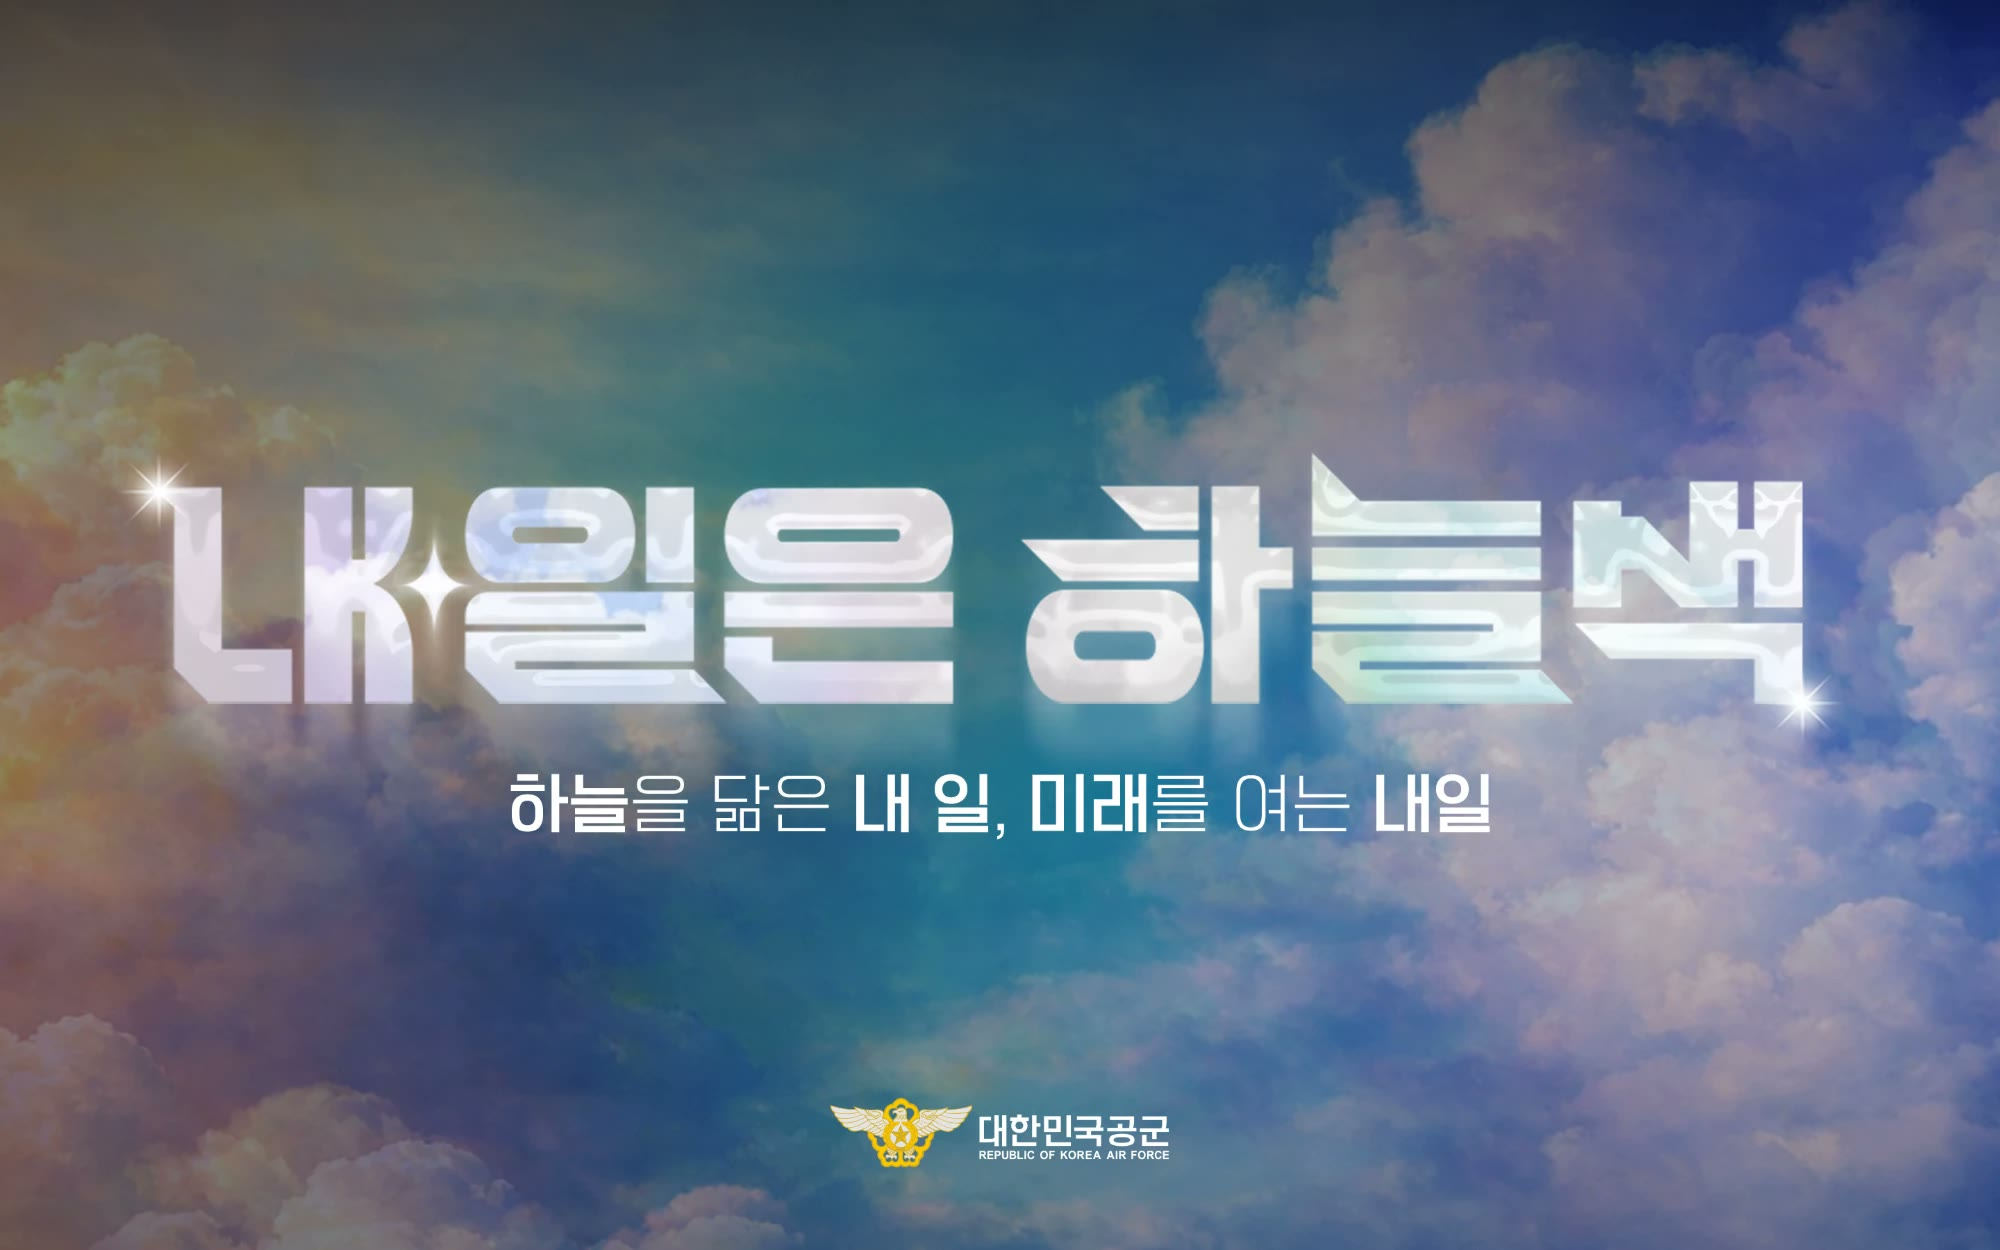
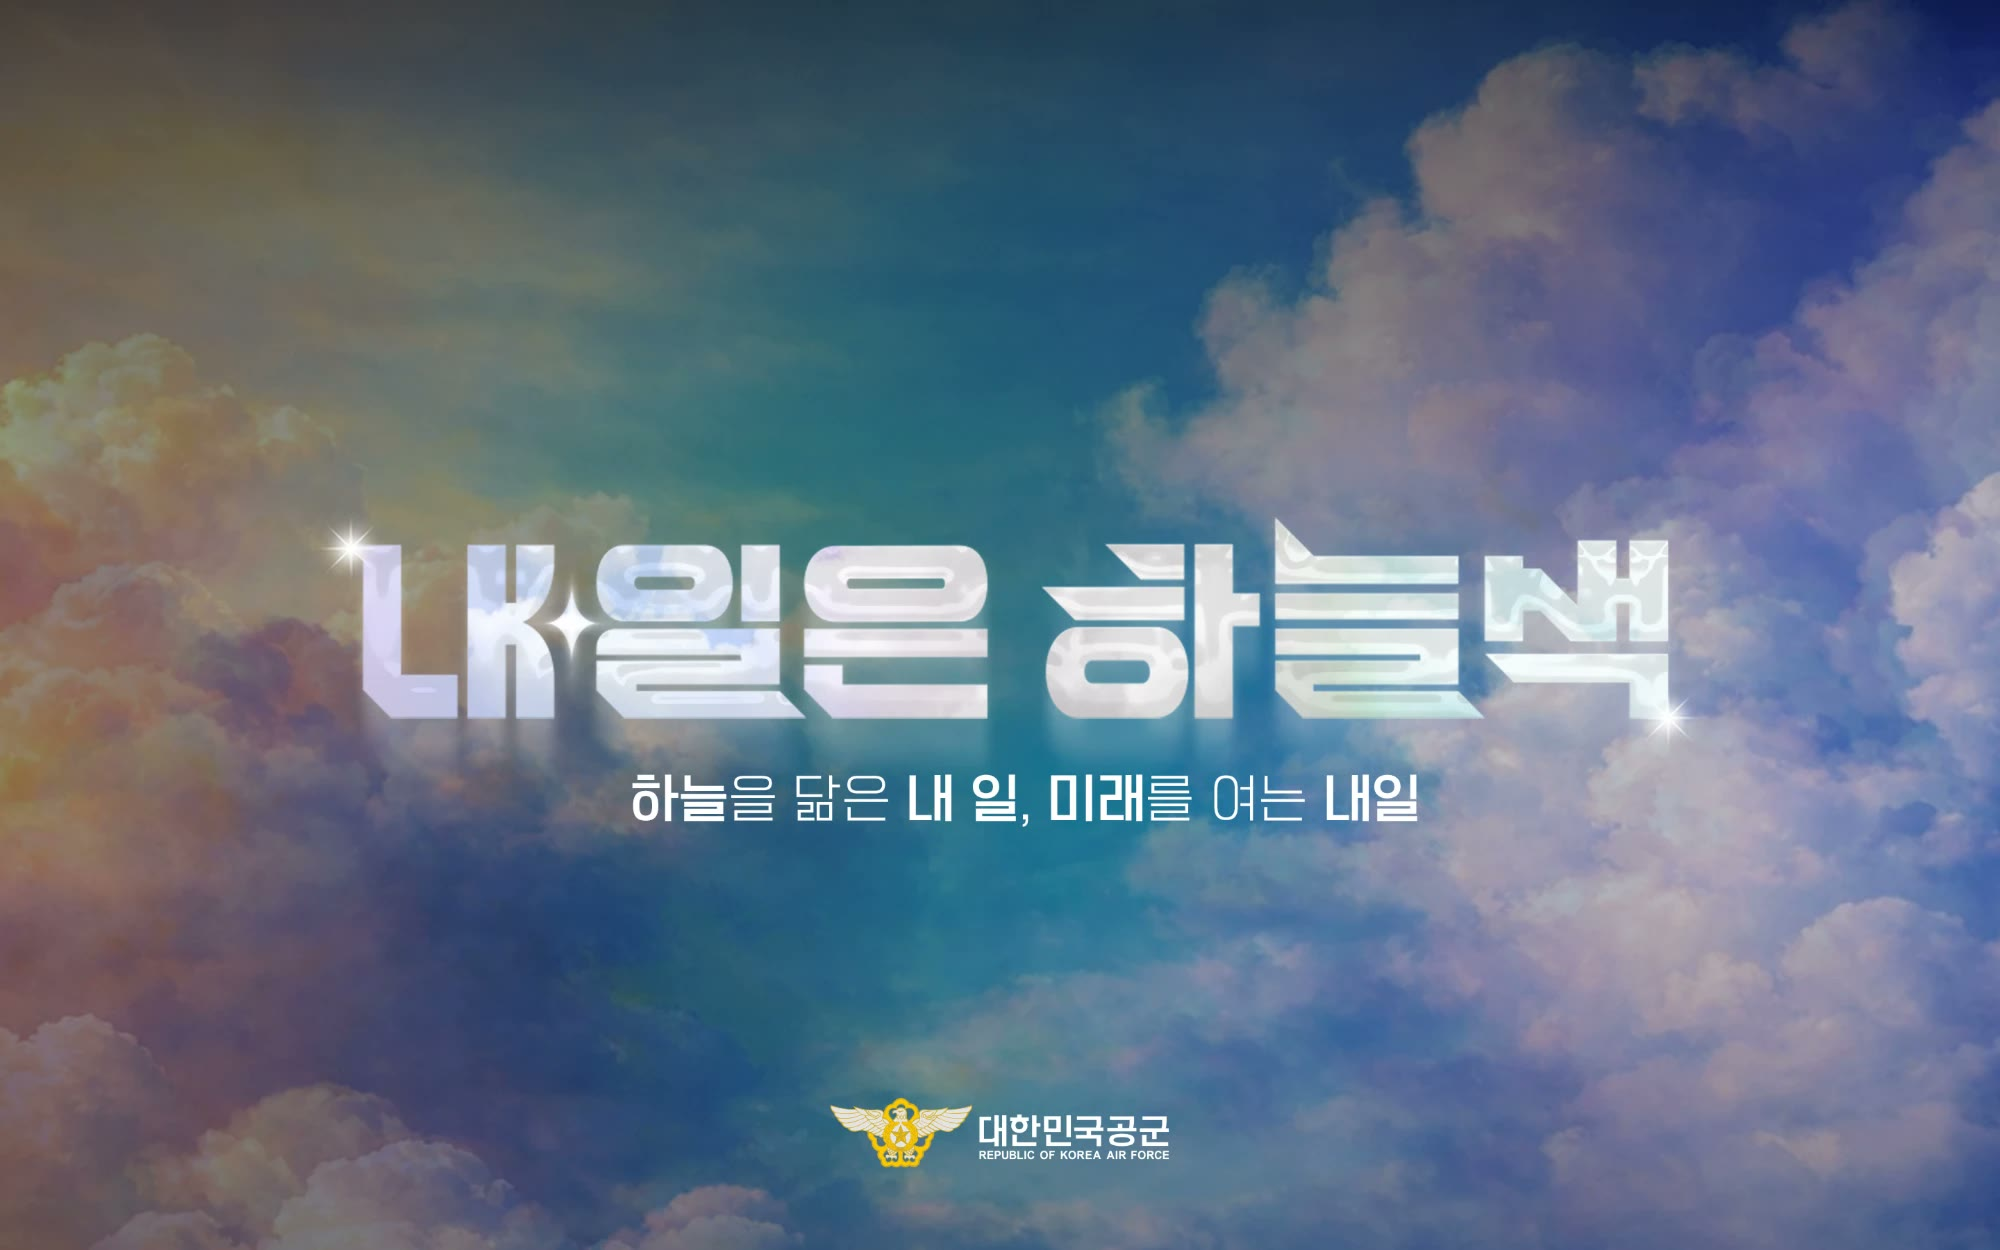
Air force: re-framed main image; case hero image full width under the intro

Changed region(s): [[0.062, 0.3744, 0.93, 0.6864]]

diff --git a/work/airforce.html b/work/airforce.html
@@ -19,7 +19,7 @@
   <link rel="preconnect" href="https://fonts.gstatic.com" crossorigin>
   <link rel="stylesheet" href="https://fonts.googleapis.com/css2?family=Instrument+Serif:ital@0;1&family=Noto+Sans+KR:wght@300;400;500&display=swap">
   <link rel="stylesheet" href="https://cdn.jsdelivr.net/npm/galmuri@latest/dist/galmuri.css">
-  <link rel="stylesheet" href="../styles.css?v=60">
+  <link rel="stylesheet" href="../styles.css?v=61">
 </head>
 <body>
   <header class="hud">
@@ -35,21 +35,17 @@
   <main>
     <section class="cp-hero" data-vital="CHART">
       <a class="cp-back" href="../index.html#work">← ALL CASE FILES</a>
-      <div class="cp-split">
-        <div>
-          <p class="cp-no">CHART 01 — MAIN</p>
-          <h1 class="cp-title">대한민국 공군 <em>ROKAF</em></h1>
-          <p class="cp-kicker">Air Force Recruitment Brand Identity &amp; Communication System</p>
-          <p class="cp-lead">대한민국 공군본부 인재획득과의 콘텐츠제작병으로 복무하여, <b>공군모집 브랜드 아이덴티티 리뉴얼 및 통합 커뮤니케이션 시스템</b>을 구축했습니다. 이 범위에는 리브랜딩, 홍보영상 기획 및 제작, 온·오프라인 캠페인 비주얼 디렉션 콘텐츠, 굿즈 및 브랜드 경험의 전방위적 이미지를 확립했습니다.</p>
-        </div>
-        <img class="cp-cover" src="../assets/work/airforce/main.jpg" alt="공군 모집 키비주얼 ‘내일은 하늘색’">
-      </div>
+      <p class="cp-no">CHART 01 — MAIN</p>
+      <h1 class="cp-title">대한민국 공군 <em>ROKAF</em></h1>
+      <p class="cp-kicker">Air Force Recruitment Brand Identity &amp; Communication System</p>
+      <p class="cp-lead">대한민국 공군본부 인재획득과의 콘텐츠제작병으로 복무하여, <b>공군모집 브랜드 아이덴티티 리뉴얼 및 통합 커뮤니케이션 시스템</b>을 구축했습니다. 이 범위에는 리브랜딩, 홍보영상 기획 및 제작, 온·오프라인 캠페인 비주얼 디렉션 콘텐츠, 굿즈 및 브랜드 경험의 전방위적 이미지를 확립했습니다.</p>
       <dl class="cp-meta">
         <div><dt>CLIENT</dt><dd>대한민국 공군본부 인재획득과</dd></div>
         <div><dt>DATE</dt><dd>2024 ~ 2026</dd></div>
         <div><dt>TOOLS</dt><dd>Adobe Illustrator, Photoshop, Premiere Pro, Google Flow, ChatGPT, Midjourney</dd></div>
         <div><dt>STATUS</dt><dd style="color: var(--acc)">REVIVED</dd></div>
       </dl>
+      <img class="cp-cover cp-cover--wide" src="../assets/work/airforce/main.jpg?v=2" alt="공군 모집 키비주얼 ‘내일은 하늘색’">
     </section>
 
     <!-- 01 BEFORE: 브랜드의 기존 문제점 -->

diff --git a/index.html b/index.html
@@ -20,7 +20,7 @@
   <link rel="preconnect" href="https://fonts.gstatic.com" crossorigin>
   <link rel="stylesheet" href="https://fonts.googleapis.com/css2?family=Instrument+Serif:ital@0;1&family=Noto+Sans+KR:wght@300;400;500&display=swap">
   <link rel="stylesheet" href="https://cdn.jsdelivr.net/npm/galmuri@latest/dist/galmuri.css">
-  <link rel="stylesheet" href="styles.css?v=60">
+  <link rel="stylesheet" href="styles.css?v=61">
 </head>
 <body>
   <header class="hud">
@@ -86,7 +86,7 @@
       <header class="section__head"><span>[ 01 ]</span><h2>Case Files</h2><i></i><span>BRAND CPR RECORDS</span></header>
 
       <article class="case">
-        <div class="case__visual"><img src="assets/work/airforce/main.jpg" alt="대한민국 공군 모집 브랜드 ‘내일은 하늘색’" loading="lazy"><span class="case__status"></span></div>
+        <div class="case__visual"><img src="assets/work/airforce/main.jpg?v=2" alt="대한민국 공군 모집 브랜드 ‘내일은 하늘색’" loading="lazy"><span class="case__status"></span></div>
         <div class="case__info">
           <p class="case__no">CHART 01 — MAIN</p>
           <h3 class="case__title">대한민국 공군 <em>ROKAF — Recruitment Brand Identity</em></h3>

diff --git a/styles.css b/styles.css
@@ -509,6 +509,7 @@ body { padding-bottom: 44px; }
 
 .cp-split { display: grid; grid-template-columns: minmax(0, 1fr) minmax(0, .9fr); gap: clamp(32px, 5vw, 96px); align-items: center; margin-bottom: clamp(32px, 4vw, 64px); }
 .cp-split .cp-cover { margin-top: 0; }
+.cp-cover--wide { aspect-ratio: 21 / 9; object-fit: cover; } /* 넓은 화면에서도 꽉 차게, 위아래 하늘만 조금 잘림 */
 /* 윙스피킹 표지: 흐린 외벽 위에 로고가 입체로 떠 있습니다 */
 .ws-hero { position: relative; overflow: hidden; perspective: 1000px; }
 .ws-hero__bg { display: block; width: 100%; }
@@ -802,3 +803,4 @@ body { padding-bottom: 44px; }
 /* 큰 화면에서 내용이 끝없이 퍼지지 않게: 본문 폭 최대 1280px, 가운데 정렬 */
 .section, .cp-hero, .cp-next { padding-inline: max(var(--gutter), calc((100% - 1280px) / 2)); }
 .kv__posters { margin-inline: auto; }
+@media (max-width: 700px) { .cp-cover--wide { aspect-ratio: 16 / 10; } }

diff --git a/work/mogak.html b/work/mogak.html
@@ -19,7 +19,7 @@
   <link rel="preconnect" href="https://fonts.gstatic.com" crossorigin>
   <link rel="stylesheet" href="https://fonts.googleapis.com/css2?family=Instrument+Serif:ital@0;1&family=Noto+Sans+KR:wght@300;400;500&display=swap">
   <link rel="stylesheet" href="https://cdn.jsdelivr.net/npm/galmuri@latest/dist/galmuri.css">
-  <link rel="stylesheet" href="../styles.css?v=60">
+  <link rel="stylesheet" href="../styles.css?v=61">
 </head>
 <body>
   <header class="hud">

diff --git a/work/studiokhun.html b/work/studiokhun.html
@@ -19,7 +19,7 @@
   <link rel="preconnect" href="https://fonts.gstatic.com" crossorigin>
   <link rel="stylesheet" href="https://fonts.googleapis.com/css2?family=Instrument+Serif:ital@0;1&family=Noto+Sans+KR:wght@300;400;500&display=swap">
   <link rel="stylesheet" href="https://cdn.jsdelivr.net/npm/galmuri@latest/dist/galmuri.css">
-  <link rel="stylesheet" href="../styles.css?v=60">
+  <link rel="stylesheet" href="../styles.css?v=61">
 </head>
 <body>
   <header class="hud">

diff --git a/work/wingspeaking.html b/work/wingspeaking.html
@@ -19,7 +19,7 @@
   <link rel="preconnect" href="https://fonts.gstatic.com" crossorigin>
   <link rel="stylesheet" href="https://fonts.googleapis.com/css2?family=Instrument+Serif:ital@0;1&family=Noto+Sans+KR:wght@300;400;500&display=swap">
   <link rel="stylesheet" href="https://cdn.jsdelivr.net/npm/galmuri@latest/dist/galmuri.css">
-  <link rel="stylesheet" href="../styles.css?v=60">
+  <link rel="stylesheet" href="../styles.css?v=61">
 </head>
 <body>
   <header class="hud">
